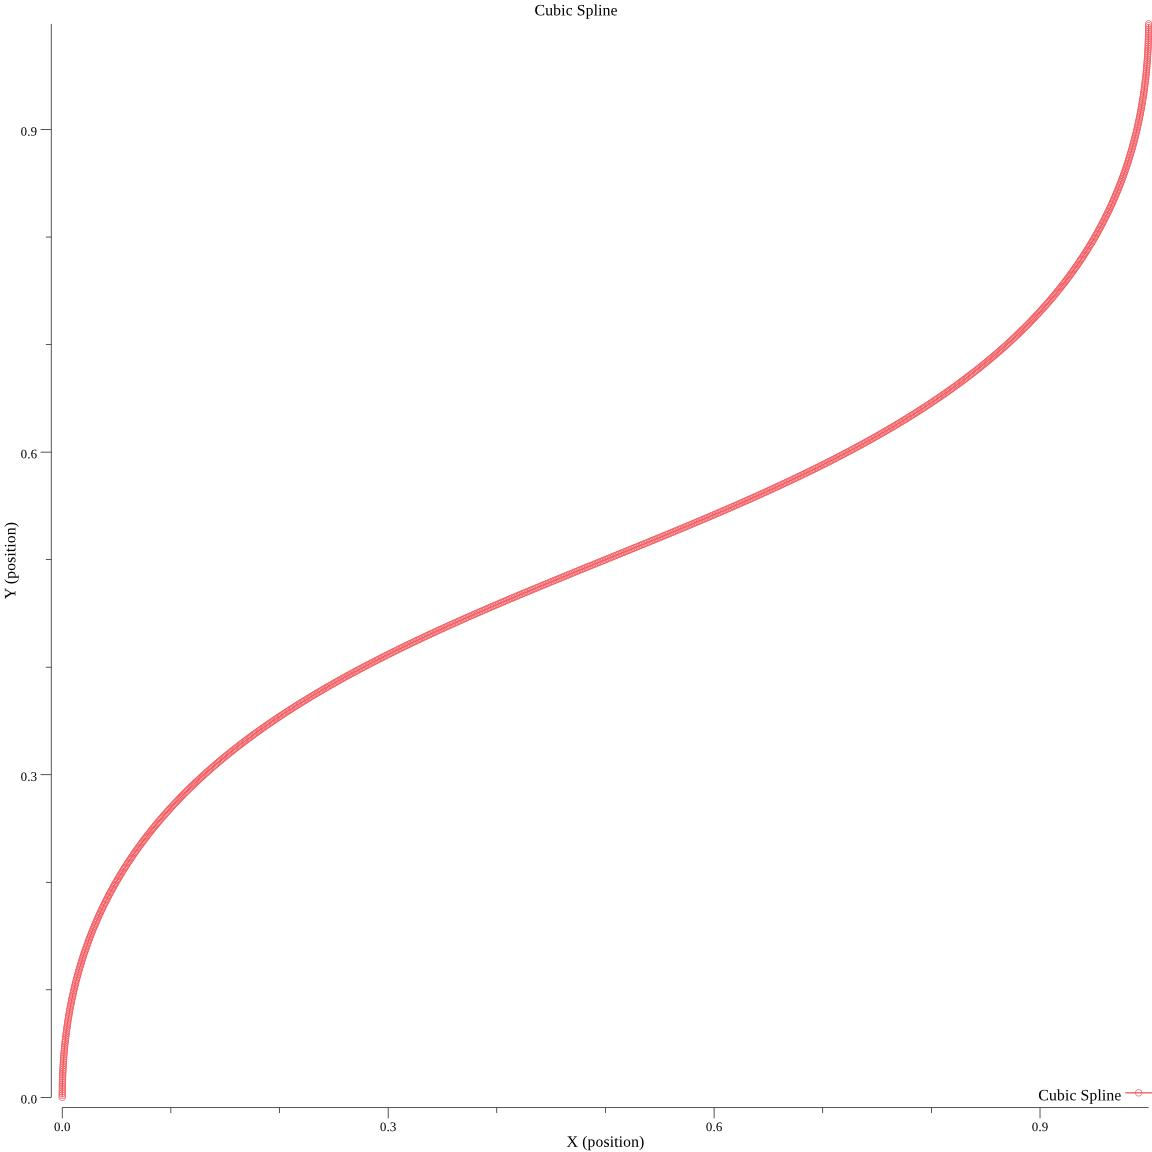
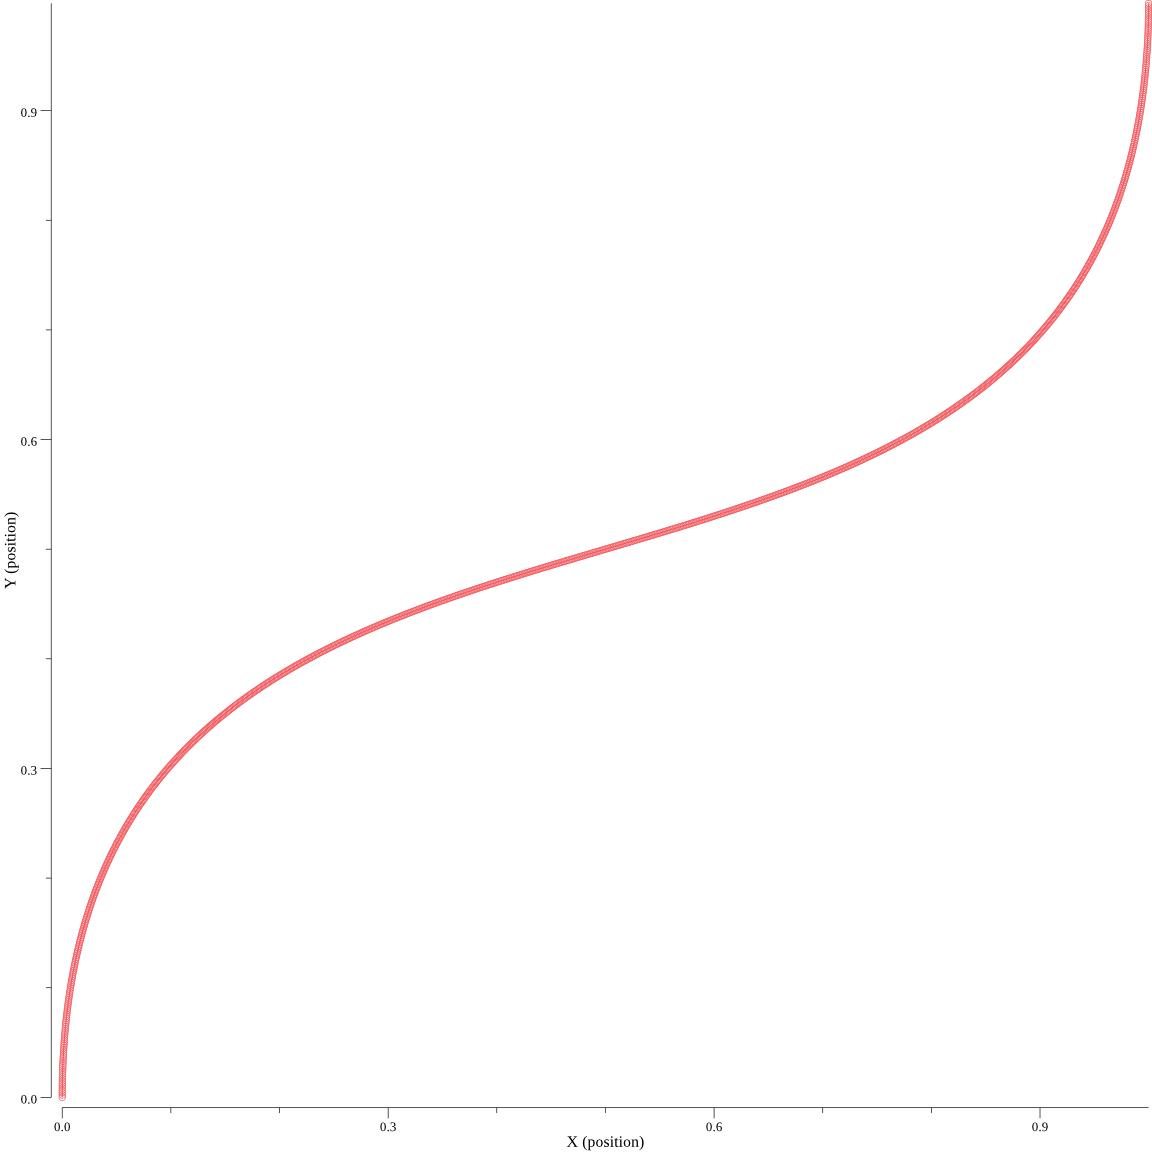
add quintic splines

diff --git a/path/spline.go b/path/spline.go
@@ -1,68 +1,24 @@
 package path
 
 import (
-    "fmt"
-    "math"
-
     "gonum.org/v1/plot"
     "gonum.org/v1/plot/plotter"
     "gonum.org/v1/plot/plotutil"
     "gonum.org/v1/plot/vg"
 )
 
-type CubicSpline struct{
-    //Spline coefficients
-    //x(t) = Ax*t^3 + Bx*t^2 + Cx*t + Dx
-    //y(t) = Ay*t^3 + By*t^2 + Cy*t + Dy
-    Ax,Bx,Cx,Dx,Ay,By,Cy,Dy float64
+type Spline interface {
+    GetPose(t float64) Pose
+    GetCurvature(t float64) float64
+    String() string
 }
 
-func GenerateCubicSpline(start Point, end Point) CubicSpline {
-    x0 := start.X
-    x1 := end.X
-    y0 := start.Y
-    y1 := end.Y
-    scale := 1.25*Dist(start, end)
-    vx0 := scale*Cos(start)
-    vx1 := scale*Cos(end)
-    vy0 := scale*Sin(start)
-    vy1 := scale*Sin(end)
-
-    //spline coeffs
-    ax := -2.0*x1 + 2.0*x0 + vx0 + vx1
-    ay := -2.0*y1 + 2.0*y0 + vy0 + vy1
-    bx := 3.0*x1 - 3.0*x0 - 2.0*vx0 - vx1
-    by := 3.0*y1 - 3.0*y0 - 2.0*vy0 - vy1
-    cx := vx0
-    cy := vy0
-    dx := x0
-    dy := y0
-
-    rv := CubicSpline{ax, bx, cx, dx, ay, by, cy, dy}
-
-    return rv
-}
-
-//time ranges from 0 to 1
-func (this* CubicSpline) GetPoint(time float64) Point {
-    x := this.Ax*math.Pow(time, 3) + this.Bx*math.Pow(time, 2) + this.Cx*time + this.Dx
-    y := this.Ay*math.Pow(time, 3) + this.By*math.Pow(time, 2) + this.Cy*time + this.Dy
-    dx := 3.0*this.Ax*math.Pow(time, 2) + 2.0*this.Bx*time + this.Cx;
-    dy := 3.0*this.Ay*math.Pow(time, 2) + 2.0*this.By*time + this.Cy;
-    theta := math.Atan2(dy, dx)
-    return Point{x,y,theta}
-}
-
-func (this *CubicSpline) String() string {
-    return fmt.Sprintf("x(t) = %.2ft^3 + %.2ft^2 + %.2ft + %.2f\ny(t) = %.2ft^3 + %.2ft^2 + %.2ft + %.2f", this.Ax, this.Bx, this.Cx, this.Dx, this.Ay, this.By, this.Cy, this.Dy)
-}
-
-func (this *CubicSpline) Plot() {
+func Plot(s Spline, name string, path string) {
     p, err := plot.New()
     if err != nil {
         panic(err)
     }
-    p.Title.Text = "Cubic Spline"
+    p.Title.Text = name
     p.X.Label.Text = "X (position)"
     p.Y.Label.Text = "Y (position)"
 
@@ -72,18 +28,18 @@ func (this *CubicSpline) Plot() {
 
     accum := 0.0
     for i := 0; i < iters; i += 1 {
-        p := this.GetPoint(accum)
+        p := s.GetPose(accum)
         points[i].X = p.X
         points[i].Y = p.Y
         accum += step
     }
 
-    err = plotutil.AddLinePoints(p, "Cubic Spline", points)
+    err = plotutil.AddLinePoints(p, name, points)
     if err != nil {
         panic(err)
     }
 
-    err = p.Save(12*vg.Inch, 12*vg.Inch, "CubicSpline.jpg")
+    err = p.Save(12*vg.Inch, 12*vg.Inch, path)
     if err != nil {
         panic(err)
     }

diff --git a/path/quintic_spline.go b/path/quintic_spline.go
@@ -1,0 +1,64 @@
+package path
+
+import (
+    "fmt"
+    "math"
+)
+
+type QuinticSpline struct {
+    //x(t) = Ax*t^5 + Bx*t^4 + Cx*t^3 + Dx*t^2 + Ex*t + F
+    //y(t) = Ay*t^5 + By*t^4 + Cy*t^3 + Dy*t^2 + Ey*t + F
+    Ax, Bx, Cx, Dx, Ex, Fx float64
+    Ay, By, Cy, Dy, Ey, Fy float64
+}
+
+func GenerateQuinticSpline(start Pose, end Pose) *QuinticSpline {
+    x0 := start.X
+    x1 := end.X
+    y0 := start.Y
+    y1 := end.Y
+    scale := 1.2*Dist(start, end)
+    vx0 := scale*Cos(start)
+    vx1 := scale*Cos(end)
+    vy0 := scale*Sin(start)
+    vy1 := scale*Sin(end)
+    ax0 := 0.0
+    ay0 := 0.0
+    ax1 := 0.0
+    ay1 := 0.0
+
+    ax := -6.0*x0 + -3.0*vx0 - 0.5*ax0 + 0.5*ax1 - 3.0*vx1 + 6.0*x1
+    ay := -6.0*y0 + -3.0*vy0 - 0.5*ay0 + 0.5*ay1 - 3.0*vy1 + 6.0*y1
+    bx := 15.0*x0 + 8.0*vx0 + 1.5*ax0 - 1.0*ax1 + 7.0*vx1 - 15.0*x1
+    by := 15.0*y0 + 8.0*vy0 + 1.5*ay0 - 1.0*ay1 + 7.0*vy1 - 15.0*y1
+    cx := -10.0*x0 - 6.0*vx0 - 1.5*ax0 + 0.5*ax1 - 4.0*vx1 + 10.0*x1
+    cy := -10.0*y0 - 6.0*vy0 - 1.5*ay0 + 0.5*ay1 - 4.0*vy1 + 10.0*y1
+    dx := 0.5*ax0
+    dy := 0.5*ay0
+    ex := vx0
+    ey := vy0
+    fx := x0
+    fy := y0
+
+    rv := QuinticSpline{ax, bx, cx, dx, ex, fx, ay, by, cy, dy, ey, fy}
+
+    return &rv
+}
+
+func (this* QuinticSpline) GetPose(t float64) Pose {
+    x := this.Ax*math.Pow(t, 5) + this.Bx*math.Pow(t, 4) + this.Cx*math.Pow(t, 3) + this.Dx*math.Pow(t, 2) + this.Ex*t + this.Fx
+    y := this.Ay*math.Pow(t, 5) + this.By*math.Pow(t, 4) + this.Cy*math.Pow(t, 3) + this.Dy*math.Pow(t, 2) + this.Ey*t + this.Fy
+    dx := 5*this.Ax*math.Pow(t, 4) + 4*this.Bx*math.Pow(t, 3) + 3*this.Cx*math.Pow(t, 2) + 2*this.Dx*t + this.Ex
+    dy := 5*this.Ay*math.Pow(t, 4) + 4*this.By*math.Pow(t, 3) + 3*this.Cy*math.Pow(t, 2) + 2*this.Dy*t + this.Ey
+    theta := math.Atan2(dy, dx)
+    return Pose{x,y,theta}
+}
+
+func (this* QuinticSpline) GetCurvature(t float64) float64 {
+    return 0.0
+}
+
+func (this *QuinticSpline) String() string {
+    return fmt.Sprintf("x(t) = %.2ft^5 + %.2ft^4 + %.2ft^3 + %.2ft^2 + %.2ft + %.2\ny(t) = %.2ft^5 + %.2ft^4 + %.2ft^3 + %.2ft^2 + %.2ft + %.2f", 
+    this.Ax, this.Bx, this.Cx, this.Dx, this.Ex, this.Fx, this.Ay, this.By, this.Cy, this.Dy, this.Ey, this.Fy)
+}

diff --git a/path/cubic_spline.go b/path/cubic_spline.go
@@ -1,0 +1,59 @@
+package path
+
+import (
+    "fmt"
+    "math"
+
+)
+
+type CubicSpline struct {
+    //Spline coefficients
+    //x(t) = Ax*t^3 + Bx*t^2 + Cx*t + Dx
+    //y(t) = Ay*t^3 + By*t^2 + Cy*t + Dy
+    Ax,Bx,Cx,Dx,Ay,By,Cy,Dy float64
+}
+
+func GenerateCubicSpline(start Pose, end Pose) *CubicSpline {
+    x0 := start.X
+    x1 := end.X
+    y0 := start.Y
+    y1 := end.Y
+    scale := 1.5*Dist(start, end)
+    vx0 := scale*Cos(start)
+    vx1 := scale*Cos(end)
+    vy0 := scale*Sin(start)
+    vy1 := scale*Sin(end)
+
+    //spline coeffs
+    ax := -2.0*x1 + 2.0*x0 + vx0 + vx1
+    ay := -2.0*y1 + 2.0*y0 + vy0 + vy1
+    bx := 3.0*x1 - 3.0*x0 - 2.0*vx0 - vx1
+    by := 3.0*y1 - 3.0*y0 - 2.0*vy0 - vy1
+    cx := vx0
+    cy := vy0
+    dx := x0
+    dy := y0
+
+    rv := CubicSpline{ax, bx, cx, dx, ay, by, cy, dy}
+
+    return &rv
+}
+
+//t ranges from 0 to 1
+func (this* CubicSpline) GetPose(t float64) Pose {
+    x := this.Ax*math.Pow(t, 3) + this.Bx*math.Pow(t, 2) + this.Cx*t + this.Dx
+    y := this.Ay*math.Pow(t, 3) + this.By*math.Pow(t, 2) + this.Cy*t + this.Dy
+    dx := 3.0*this.Ax*math.Pow(t, 2) + 2.0*this.Bx*t + this.Cx;
+    dy := 3.0*this.Ay*math.Pow(t, 2) + 2.0*this.By*t + this.Cy;
+    theta := math.Atan2(dy, dx)
+    return Pose{x,y,theta}
+}
+
+func (this* CubicSpline) GetCurvature(t float64) float64 {
+    return 0.0;
+}
+
+func (this *CubicSpline) String() string {
+    return fmt.Sprintf("x(t) = %.2ft^3 + %.2ft^2 + %.2ft + %.2f\ny(t) = %.2ft^3 + %.2ft^2 + %.2ft + %.2f", this.Ax, this.Bx, this.Cx, this.Dx, this.Ay, this.By, this.Cy, this.Dy)
+}
+

diff --git a/path/pose.go b/path/pose.go
@@ -5,25 +5,25 @@ import (
     "math"
 )
 
-type Point struct {
+type Pose struct {
     X, Y, Theta float64
 }
 
-func (this *Point) String() string {
+func (this *Pose) String() string {
     return fmt.Sprintf("(%.2f, %.2f, %.2f)", this.X, this.Y, this.Theta)
 }
 
-func Dist(start Point, end Point) float64 {
+func Dist(start Pose, end Pose) float64 {
     dx := end.X - start.X
     dy := end.Y - start.Y
     rv := math.Sqrt(dx*dx + dy*dy)
     return rv
 }
 
-func Cos(p Point) float64 {
+func Cos(p Pose) float64 {
     return math.Cos(p.Theta)
 }
 
-func Sin(p Point) float64 {
+func Sin(p Pose) float64 {
     return math.Sin(p.Theta)
 }

diff --git a/main.go b/main.go
@@ -25,11 +25,11 @@ func main(){
     profile.Plot()
     */
 
-    start := path.Point{0,0,math.Pi/2.0}
-    end := path.Point{1,1,math.Pi/2.0}
-    spline := path.GenerateCubicSpline(start, end)
+    start := path.Pose{0,0,math.Pi/2.0}
+    end := path.Pose{20,100,math.Pi/2.0}
+    spline := path.GenerateQuinticSpline(start, end)
 
-    fmt.Println(spline.String())
+    fmt.Println(spline)
 
-    spline.Plot()
+    path.Plot(spline, "", "QuinticSpline.jpg")
 }
